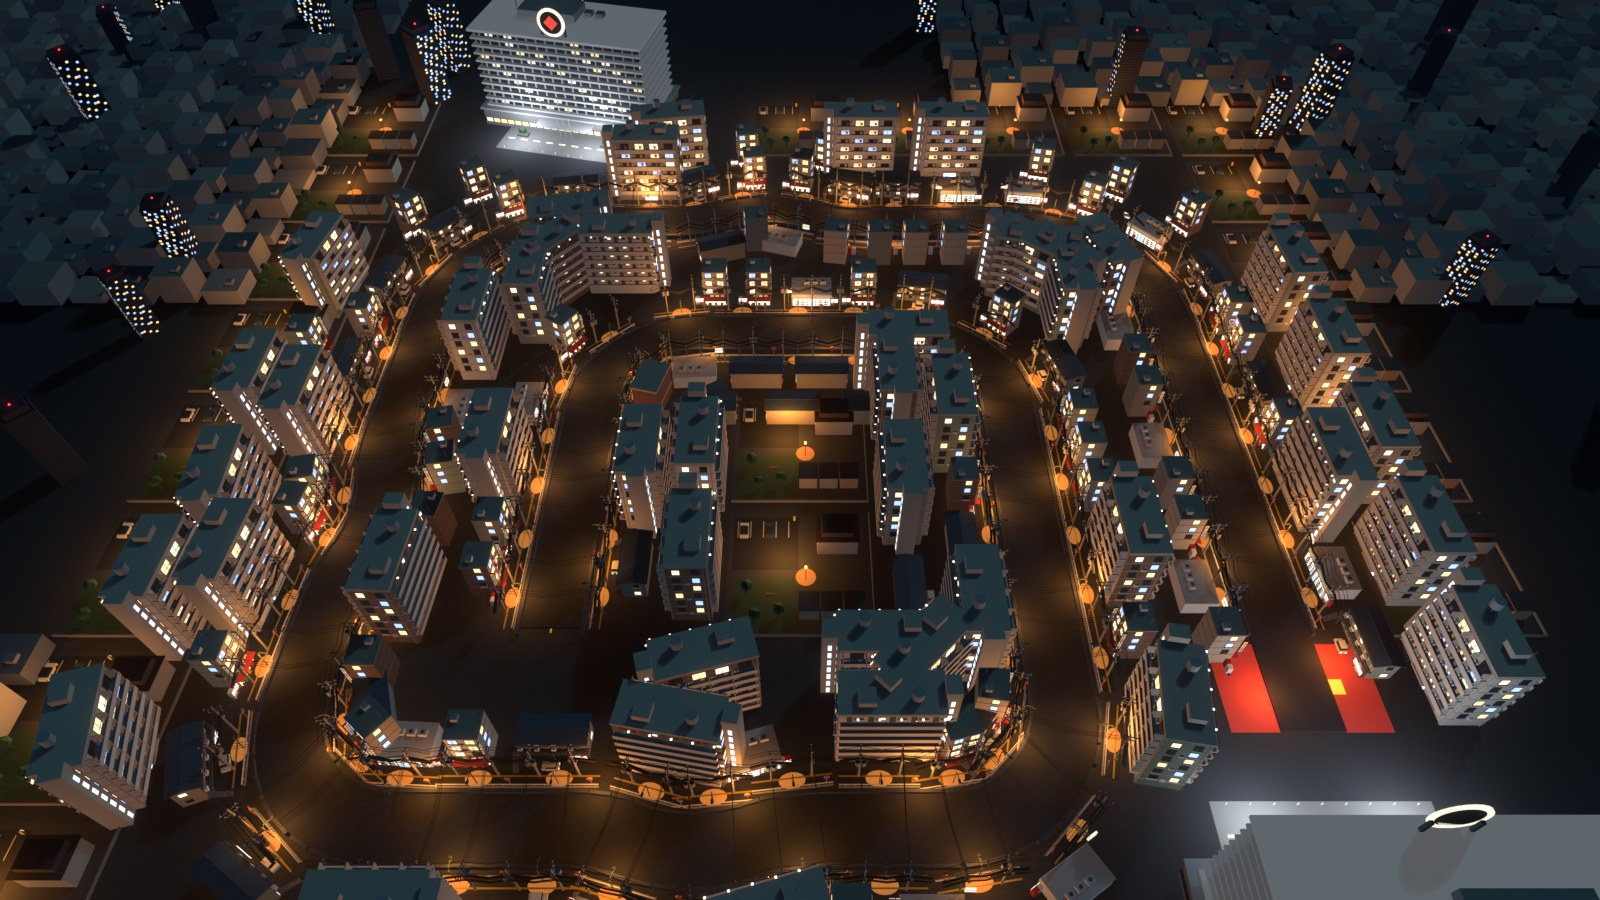
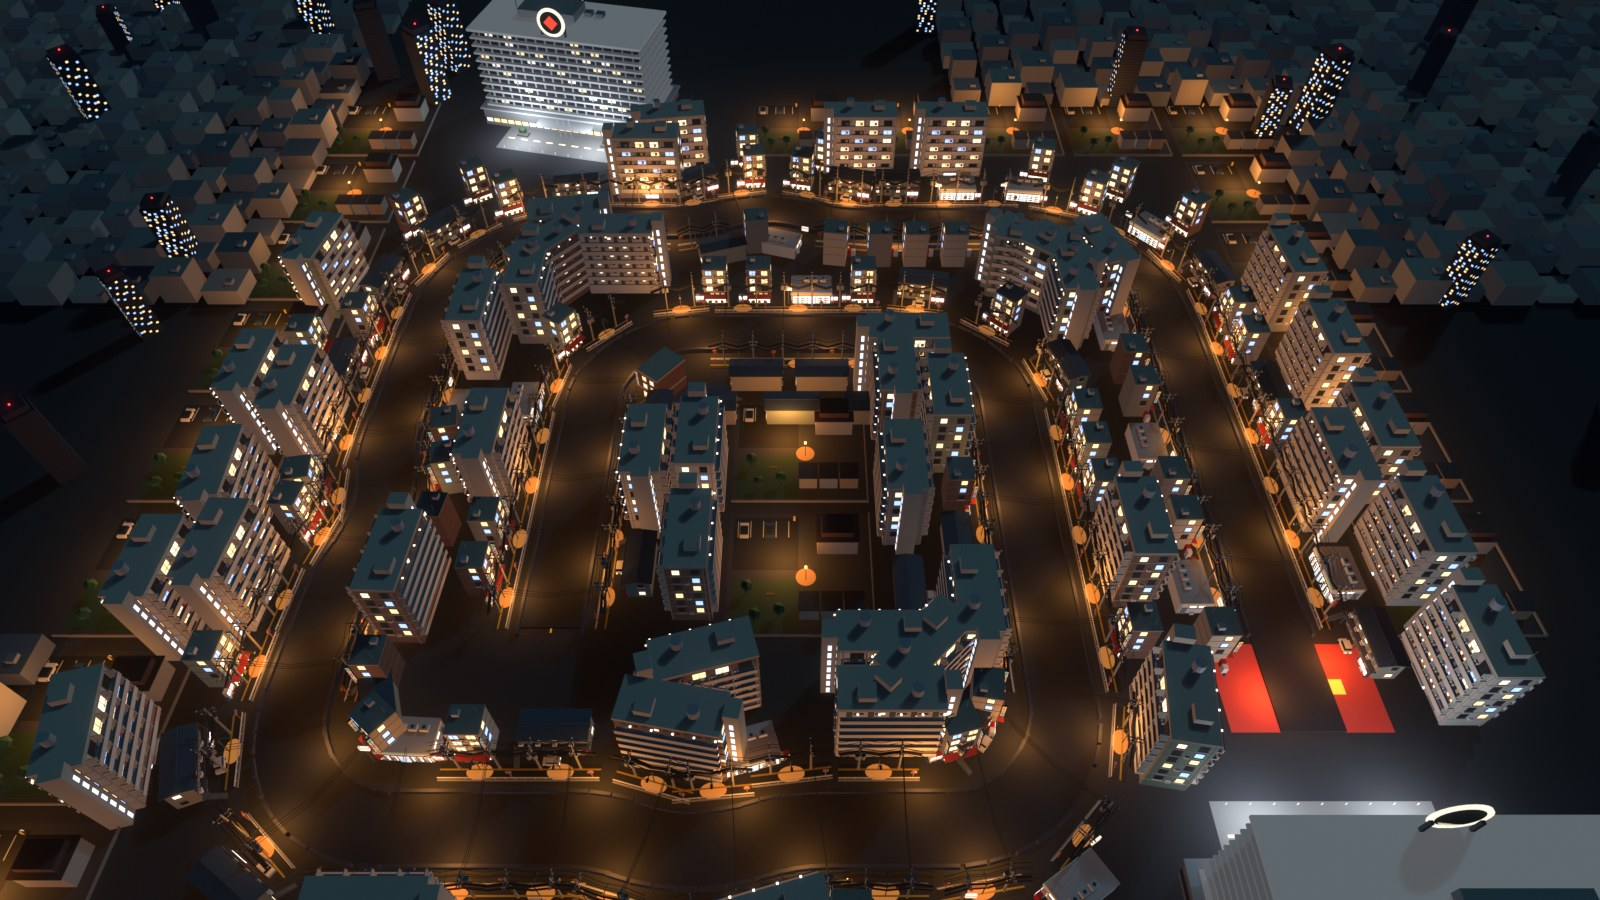
World 2 drafts: Track 1 round 4 (model close-ups, CrossWire prop, 24-stud clearance)

Changed region(s): [[0.0938, 0.1244, 0.875, 1.0], [0.5312, 0.7156, 0.5625, 0.7467]]

diff --git a/tools/blender/world2/biomes/DevilTokyo.py b/tools/blender/world2/biomes/DevilTokyo.py
@@ -20,6 +20,7 @@ render set (design doc 4.47)."""
 import math
 
 MODEL_SHOTS = ["HQ", "Mansion", "Apaato", "Konbini", "Retro"]  # hero close-ups judged at full size (build_track)
+CLEAR_EXEMPT = {"CrossWire"}  # wires spanning the street overhead: lowest point 20+ studs over the road top (14+ rule)
 
 ASPH, PAVE, CURB = "3A3C40", "2C2E33", "9A9C9E"
 MANSION_WALL, SHOP_WALL, APA_WALL = "D6D0C3", "B8B0A3", "A99C83"  # keys for the per-instance colour variation
@@ -285,6 +286,15 @@ def konbini():
 		B(p, (5, 3, 4), (x, H + 2, 4), "D8D8D4")
 		C(p, (2.4, 0.2, 2.4), (x, H + 3.6, 4), "50545A")
 	vending_pair(p, -W / 2 - 4.2, zf + 2, n=2)
+	for xs in (-W / 2, W / 2):  # side elevations: frosted strip windows, staff door, poster panel, AC unit, drainpipe
+		s = 1 if xs > 0 else -1
+		for z in (-4, 2):
+			side_window(p, xs, z, 8.6, 4.4, 2.0, "E8F0F0", frame="9AA2AA")
+		B(p, (0.4, 7, 3.6), (xs + s * 0.2, 3.5, 7), "8A9096")
+		B(p, (0.3, 4, 2.8), (xs + s * 0.3, 4.4, -8), "E8D8B0", emit=0.6)
+		B(p, (1.2, 2.0, 2.8), (xs + s * 0.8, 1.0, 1), "E6E6E2")
+		C(p, (0.6, H, 0.6), (xs + s * 0.4, H / 2, D / 2 - 0.6), "8A8478", seg=6)
+		B(p, (0.3, 1.0, D), (xs + s * 0.25, 10.5, 0), "D89A48", emit=0.4)
 	C(p, (0.8, 18, 0.8), (W / 2 + 3, 9, zf - 1), STEEL, seg=6)
 	B(p, (6, 4, 1.2), (W / 2 + 3, 18, zf - 1), "F0ECE0", emit=1.2)
 	B(p, (6.2, 1.2, 1.3), (W / 2 + 3, 19, zf - 1), "D89A48", emit=1.2)
@@ -380,7 +390,7 @@ def wire(p, x0, y0, z0, x1, y1, z1, r, sag):
 
 
 def street_kit():
-	"""48 studs of narrow-street edge, placed with its road side (-Z) toward the road at 31 studs from the centre line:
+	"""48 studs of narrow-street edge, placed with its road side (-Z) toward the road at 35 studs from the centre line:
 	dark pavement on a raised kerb, white guardrail, a curved-arm sodium lamp with its warm pool, and two concrete utility
 	poles (transformer drum on the second) with 8 sagging wires per span, thick black cable bundles, and 3 wires crossing
 	high over the street to the far side (lowest point 22+ studs up, the road top is at 1)."""
@@ -392,12 +402,12 @@ def street_kit():
 		B(p, (48, 0.35, 0.3), (0, y, -5.2), "EDEDE8")
 	for x in range(-22, 24, 6):
 		C(p, (0.35, 2.4, 0.35), (x, 1.8, -5.2), "EDEDE8", seg=6)
-	# Lamp and its pool
-	C(p, (0.7, 17, 0.7), (0, 8.5, -4), "5E6E66")
-	B(p, (0.5, 3, 0.5), (0, 17.5, -4.9), "5E6E66", rot=(-35, 0, 0))
-	B(p, (0.5, 0.5, 3.6), (0, 18.8, -7.6), "5E6E66")
-	B(p, (1.4, 0.7, 2.6), (0, 18.5, -10), "4A5A52")
-	B(p, (1.1, 0.2, 2.2), (0, 18.1, -10), SODIUM, emit=10)
+	# Lamp and its pool (head ends 28.2 studs from the centre line on a straight, 24+ inside bends: kit at 35, head edge at local z -6.8)
+	C(p, (0.7, 17, 0.7), (0, 8.5, 0.5), "5E6E66")
+	B(p, (0.5, 3, 0.5), (0, 17.5, -0.4), "5E6E66", rot=(-35, 0, 0))
+	B(p, (0.5, 0.5, 3.6), (0, 18.8, -3.1), "5E6E66")
+	B(p, (1.4, 0.7, 2.6), (0, 18.5, -5.5), "4A5A52")
+	B(p, (1.1, 0.2, 2.2), (0, 18.1, -5.5), SODIUM, emit=10)
 	C(p, (16, 0.05, 10), (0, 0.66, -1), SODIUM, seg=16, emit=0.6, alpha=0.35)
 	# Two poles at x = -12 and +12
 	H = 36
@@ -427,13 +437,19 @@ def street_kit():
 		wire(p, -12, y, zz, 12, y, zz, r, sag)
 		wire(p, -24, y - sag, zz, -12, y, zz, r, 0.0)
 		wire(p, 12, y, zz, 24, y - sag, zz, r, 0.0)
-	# Wires crossing over the street from the second pole to the far side (62 studs away toward -Z); lowest 20+ up
-	for y, dz in ((33, -2), (30, 0), (27.5, 2)):
-		wire(p, 12, y, 1 + dz, 12, y, -61 + dz, 0.35, 7.0)
 	# Orange curve mirror on its own post at the kerb
 	C(p, (0.5, 10, 0.5), (-20, 5, -4.4), "E07020", seg=6)
 	C(p, (3.6, 0.5, 3.6), (-20, 10.5, -5.0), "E07020", seg=14, rot=(90, 0, 0))
 	C(p, (3.0, 0.3, 3.0), (-20, 10.5, -5.3), "C8D0D8", seg=14, rot=(90, 0, 0), metal=0.8, rough=0.15)
+	return p
+
+
+def cross_wire():
+	"""Three wires crossing high over the street from a pole on one side (local x 12, z 1) to the far side 70 studs toward
+	-Z; sag 7, so the lowest point is 20.5 studs up (road top at 1). Its own prop so the clearance check can exempt it."""
+	p = []
+	for y, dz in ((33, -2), (30, 0), (27.5, 2)):
+		wire(p, 12, y, 1 + dz, 12, y, -69 + dz, 0.35, 7.0)
 	return p
 
 
@@ -514,19 +530,29 @@ def retro():
 			y = 15 + f * 8
 			window(p, x, y, zf, 3.6, 4.6, (WARM, None, "FFE6C0", None)[lit(f, x) % 4], frame="E8DCC8")
 			C(p, (3.6, 0.6, 1.2), (x, y + 2.4, zf - 0.3), "E8DCC8", seg=10, rot=(90, 0, 0))  # arch head
+	for xs in (-W / 2, W / 2):  # side elevations: arched windows on both floors, lit cafe window, drainpipe
+		s = 1 if xs > 0 else -1
+		for f in range(2):
+			for z in (-4, 4):
+				side_window(p, xs, z, 15 + f * 8, 3.6, 4.6, (WARM, None, "FFE6C0")[lit(f, z, xs) % 3], frame="E8DCC8")
+				C(p, (1.2, 0.6, 3.6), (xs + s * 0.3, 17.4 + f * 8, z), "E8DCC8", seg=10, rot=(0, 0, 90))  # arch head
+		side_window(p, xs, -3, 4.5, 8, 5, "FFD8A0", frame="3A2A22")
+		C(p, (0.6, 28, 0.6), (xs + s * 0.4, 14, D / 2 - 0.6), "6A5A4A", seg=6)
+	corner_signs(p, -W / 2 - 0.4, zf, 26, 5, 2)  # narrow sign stack on the near corner
 	B(p, (W - 4, 7, 0.3), (0, 4.5, zf - 0.1), "FFD8A0", emit=2.4)
 	for x in range(-12, 14, 4):
 		B(p, (0.5, 7.4, 0.5), (x, 4.5, zf - 0.4), "3A2A22")
 	for i in range(6):
 		B(p, (W / 6, 0.5, 4), (-W / 2 + W / 12 + i * W / 6, 8.6, zf - 2), ("2A6A4A", "E8E0D0")[i % 2], rot=(-15, 0, 0))
 	# Phone booth: green frame, glass, lit ceiling, phone box
-	bx = 8  # in front of the facade, so every camera that sees the building sees the booth
+	bx = -8  # in front of the facade (near end for the 0.06 run camera), so every camera that sees the building sees the booth
 	for dx in (-1.6, 1.6):
 		for dz in (-1.6, 1.6):
 			B(p, (0.4, 8, 0.4), (bx + dx, 4, zf - 4 + dz), "2E8A4A")
 	B(p, (3.8, 0.6, 3.8), (bx, 8.2, zf - 4), "2E8A4A")
+	B(p, (3.2, 1.0, 3.2), (bx, 9.0, zf - 4), "7AE0A0", emit=3)  # lit green roof cap, reads over the road wall
 	B(p, (3.4, 0.3, 3.4), (bx, 7.8, zf - 4), "F4FFF4", emit=4)
-	B(p, (3.2, 7, 3.2), (bx, 4, zf - 4), "D8F0E0", alpha=0.35, emit=0.8)
+	B(p, (3.2, 7, 3.2), (bx, 4, zf - 4), "C8F0D8", alpha=0.5, emit=2.2)
 	B(p, (1.2, 1.8, 0.8), (bx, 4.6, zf - 2.7), "3A8A5A")
 	B(p, (3.8, 0.4, 3.8), (bx, 0.2, zf - 4), "2E8A4A")
 	return p
@@ -592,6 +618,7 @@ def build(k):
 		("LowBlock", low_block()),
 		("Retro", retro()),
 		("RoofTile", roof_tile()),
+		("CrossWire", cross_wire()),
 	):
 		k.prop(name, parts)
 	vary(k, MANSION_WALL, ("D6D0C3", "9EA0A0", "8C6A52", "E8E4DA", "8FA08A"))  # off-white, grey concrete, brown tile, green
@@ -602,7 +629,22 @@ def build(k):
 	L = k.length
 	end = L - 70
 	# Street edge both sides: pavement, kerb, guardrail, lamps with pools, poles with wires over the street
-	k.along(48, (-31, 31), ["StreetKit"], start=24, end=end)
+	# As k.along (same rng calls, so the street layout is unchanged), but a kit is skipped on a tight inner bend where its
+	# straight 48-stud length would bring a road-side corner (local x +-24, z -6.4) within 24 studs of the centre line.
+	d = 24
+	while d < end:
+		for off in (-35, 35):
+			k.rng.uniform(0, 0)
+			pos, yaw = k.beside(d + k.rng.uniform(0, 0), off)
+			if not k.clear_of_road(pos[0], pos[2], 24):
+				continue
+			name, _ = k.rng.choice(["StreetKit"]), k.rng.uniform(1.0, 1.0)
+			p, right, t = k.at(d)
+			s = 1 if off > 0 else -1
+			corners = [p + right * (off - s * 6.4) + t * e for e in (-24, 24)]
+			if all(k.clear_of_road(c.x, c.z, 24.6) for c in corners):
+				k.place(name, pos, yaw + s * math.pi / 2)
+		d += 48
 	# Hero landmark: the HQ at the end of the street axis seen by the run cameras (0.06, 0.33, 0.62, 0.9 of the run)
 	hq_plots = []
 	for f in (0.33, 0.62, 0.9, 0.06):
@@ -635,12 +677,12 @@ def build(k):
 				break
 	hq_plots += hero_plot
 	# The Jinbocho corner near the start, on the right
-	pos, yaw = k.beside(L * 0.06 + 40, 38 + 10)
+	pos, yaw = k.beside(L * 0.06 + 75, 40 + 10)
 	k.place("Retro", pos, yaw + math.pi / 2)
 	retro_plot = [(pos[0], pos[2], 30)]
 	# Street fronts, a taller back row, the infield as low blocks, the far skyline kept below the HQ
-	street(k, -1, ["ShopHouse", "ShopHouse", "Konbini", "Apaato", "Mansion"], 37, 20, end, avoid=hq_plots, flip=0.5)
-	street(k, 1, ["ShopHouse", "Apaato", "ShopHouse", "Mansion", "Konbini"], 37, 20, end, avoid=hq_plots + retro_plot, flip=0.5)
+	street(k, -1, ["ShopHouse", "ShopHouse", "Konbini", "Apaato", "Mansion"], 40, 20, end, avoid=hq_plots, flip=0.5)
+	street(k, 1, ["ShopHouse", "Apaato", "ShopHouse", "Mansion", "Konbini"], 40, 20, end, avoid=hq_plots + retro_plot, flip=0.5)
 	street(k, -1, ["Mansion", "Mansion", "ShopHouse"], 76, 0, end, gap=(6, 20), avoid=hq_plots)
 	street(k, 1, ["Mansion", "Apaato", "Mansion"], 76, 0, end, gap=(6, 20), avoid=hq_plots)
 	# Infield back streets: low blocks on an aligned 110-stud grid, each with a sodium light over its parking and park
@@ -658,6 +700,8 @@ def build(k):
 			if math.hypot(i, j) <= 6.6 and k.clear_of_road(x, z, 330) and all(math.hypot(x - a, z - b) > r + 230 for a, b, r in hq_plots):
 				k.place("RoofTile", (x, 0.0, z), 0.0)
 	k.field(40, ["Office"], clearance=230, margin=450, scale=(0.4, 0.55))
+	# Wires over the street: one set per 48 studs from the left kits' second pole (placed last: street layout unchanged)
+	k.along(48, (-35,), ["CrossWire"], start=24, end=end)
 	# Night: teal-blue ambient for cool shadows, warm sodium point lights at the lamps
 	k.sky([(0.0, "3A4A5A"), (0.06, "22344A"), (0.25, "122236"), (1.0, "060C18")], strength=1.0, sun=(0.6, "6FA8C0", 35, 140))
 	d = 24

diff --git a/docs/world2_refs/DevilTokyo.md b/docs/world2_refs/DevilTokyo.md
@@ -13,10 +13,10 @@ machines, guardrails, mansion blocks), not franchise IP.
 | Public Safety headquarters | Large government office building in central Tokyo. No confirmed real model; guides suggest a composite of Kasumigaseki and Nagatacho government buildings: wide, low pale-grey blocks with deep projecting horizontal floor slabs over recessed ribbon windows | https://www.japan-pop-now.com/articles/chainsaw-man-pilgrimage-tokyo (speculative); https://commons.wikimedia.org/wiki/File:Central-Government-Building-4-01.jpg | `gov_building4.jpg` | `HQ` (hero): 170 studs wide, about 2:1 above a 2-storey podium with a lit lobby band. 10 pale-grey slab bands, recessed dark ribbon glazing, pale piers, sparse warm offices, a low penthouse, and a 28-stud changed emblem (lit ring, dark disc, lit diamond) on the street-side roof edge. A lit forecourt. Two are placed at the end of the street axis of the 0.62 and 0.9 run cameras. It stays the tallest mass because the skyline is kept low |
 | Aki and Denji's apartment | Reinforced-concrete residential "mansion": balconies on one face; on the other an open corridor with a concrete parapet and rail, a row of steel doors with meter boxes, ceiling lights and lit stair slits | anime season 1 (episodes 2-12, apartment exterior and corridor shots); real Tokyo mansion form | `utility_poles_takadanobaba.jpg` (mansion in the background) | `Mansion` (hero): 7 storeys. Balcony face: sliding doors, AC units, laundry. Corridor face: walkway, parapet, rail, doors, meter boxes, lights. Sides: window grids, AC units, drainpipes, tile bands at every floor. Lobby, stair core, roof tank. Half the front-row mansions turn their corridor face to the road. One hero mansion stands square-on at the end of the 0.06 camera axis with its corridor face to the runner |
 | Denji's first cheap housing / old Tokyo apartments | 2-storey wooden "apaato": siding walls, open steel corridor with railing, row of steel doors, washing machines outside, outside steel stair, shallow tin roof | anime season 1 (episode 1-2 street scenes) | (none) | `Apaato`: siding, 8 doors, corridor and railing, steel stair, tin roof, side windows, a cluster of 3 vending machines with a bin, and a kei car parked in front |
-| Narrow streets | Narrow residential streets: raised kerb, white guardrails, dark pavement, curved-arm lamps casting warm pools, concrete utility poles with transformer drums, dense sagging wires and cable bundles, wires crossing over the street | real Tokyo street furniture; anime street scenes | `utility_poles_takadanobaba.jpg` | `StreetKit` (48 studs, both sides): pavement, kerb, tactile strip, guardrail, sodium lamp and pool, an orange curve mirror, 2 poles (two big drums on the second), 8 wires per span sagging into a V, incl. 2 thick bundles, and 3 wires crossing the street 20+ studs up |
-| Street fronts, signs, vending machines | Shops with half-open shutters, awnings, narrow vertical signs stacked down building corners, AC units, and bright red and white vending machines against the walls | anime street scenes; real Tokyo streets | `vending_night.jpg`, `tokyo_night_skyline.jpg` | `ShopHouse` (shutter, awning, glyph sign band, front and side windows, narrow dark-framed corner sign stacks, parked bicycles, potted plants, a drainpipe, and a vending pair with a lit product window, dark button strip and bin); `Konbini` (muted amber and teal bands, not a real chain's colours, plus a vending pair). Sign colours are muted amber, off-white teal and dusty tones |
+| Narrow streets | Narrow residential streets: raised kerb, white guardrails, dark pavement, curved-arm lamps casting warm pools, concrete utility poles with transformer drums, dense sagging wires and cable bundles, wires crossing over the street | real Tokyo street furniture; anime street scenes | `utility_poles_takadanobaba.jpg` | `StreetKit` (48 studs, both sides, 35 studs from the centre line, skipped on tight inner bends so every part stays 24+ studs from the road): pavement, kerb, tactile strip, guardrail, sodium lamp and pool, an orange curve mirror, 2 poles (two big drums on the second), 8 wires per span sagging into a V, incl. 2 thick bundles; `CrossWire` (one per 48 studs from the left side): 3 wires crossing the street, lowest point 20.5 studs over the road (listed in `CLEAR_EXEMPT` as an overhead piece) |
+| Street fronts, signs, vending machines | Shops with half-open shutters, awnings, narrow vertical signs stacked down building corners, AC units, and bright red and white vending machines against the walls | anime street scenes; real Tokyo streets | `vending_night.jpg`, `tokyo_night_skyline.jpg` | `ShopHouse` (shutter, awning, glyph sign band, front and side windows, narrow dark-framed corner sign stacks, parked bicycles, potted plants, a drainpipe, and a vending pair with a lit product window, dark button strip and bin); `Konbini` (muted amber and teal bands, not a real chain's colours, a vending pair, and side elevations with frosted strip windows, a staff door, a poster panel, an AC unit and a drainpipe). Sign colours are muted amber, off-white teal and dusty tones |
 | Back streets (infield) | Coin parking, small 2-storey houses, pocket parks behind the main streets | real Tokyo back streets | (none) | `LowBlock` (100 x 100, on an aligned 110-stud grid in the infield, each lit by a sodium light): parking with stall lines, 2 cars, a pay machine, a hipped-roof house, a park with trees and a bench, a row of small houses, a lamp |
-| Jinbocho corner (Reze film) | The film's Jinbocho scenes: a retro tiled building and the phone booth | https://tabimaniajapan.com/japan-trip/kanto/tokyo/chainsaw-man-reze-arc-pilgrimage-real-life-locations-in-tokyo | (none) | `Retro` (once, on the right of the 0.06 run camera): brown-tile 3-storey building with arched windows, cornice, lit cafe glazing and striped awning, and a lit green phone booth in front of it |
+| Jinbocho corner (Reze film) | The film's Jinbocho scenes: a retro tiled building and the phone booth | https://tabimaniajapan.com/japan-trip/kanto/tokyo/chainsaw-man-reze-arc-pilgrimage-real-life-locations-in-tokyo | (none) | `Retro` (once, on the right of the 0.06 run camera, 75 studs ahead): brown-tile 3-storey building with arched windows, cornice, lit cafe glazing and striped awning, and a lit green phone booth (lit glass and a lit green roof cap) at the facade's near end |
 | Skyline | Night Tokyo: office towers with lit window grids and red aircraft-warning beacons, kept lower than the HQ | https://commons.wikimedia.org/wiki/File:Tokyo_by_night_2011_(cropped).jpg | `tokyo_night_skyline.jpg` | `Office` (field-scattered, scaled 0.4-0.55, lower than the HQ); `RoofTile` (320 x 320 of low rooftops on an aligned grid out to the horizon) |
 
 Wall colours vary per building instance (off-white, grey concrete, brown tile, green) through an object-random material in
